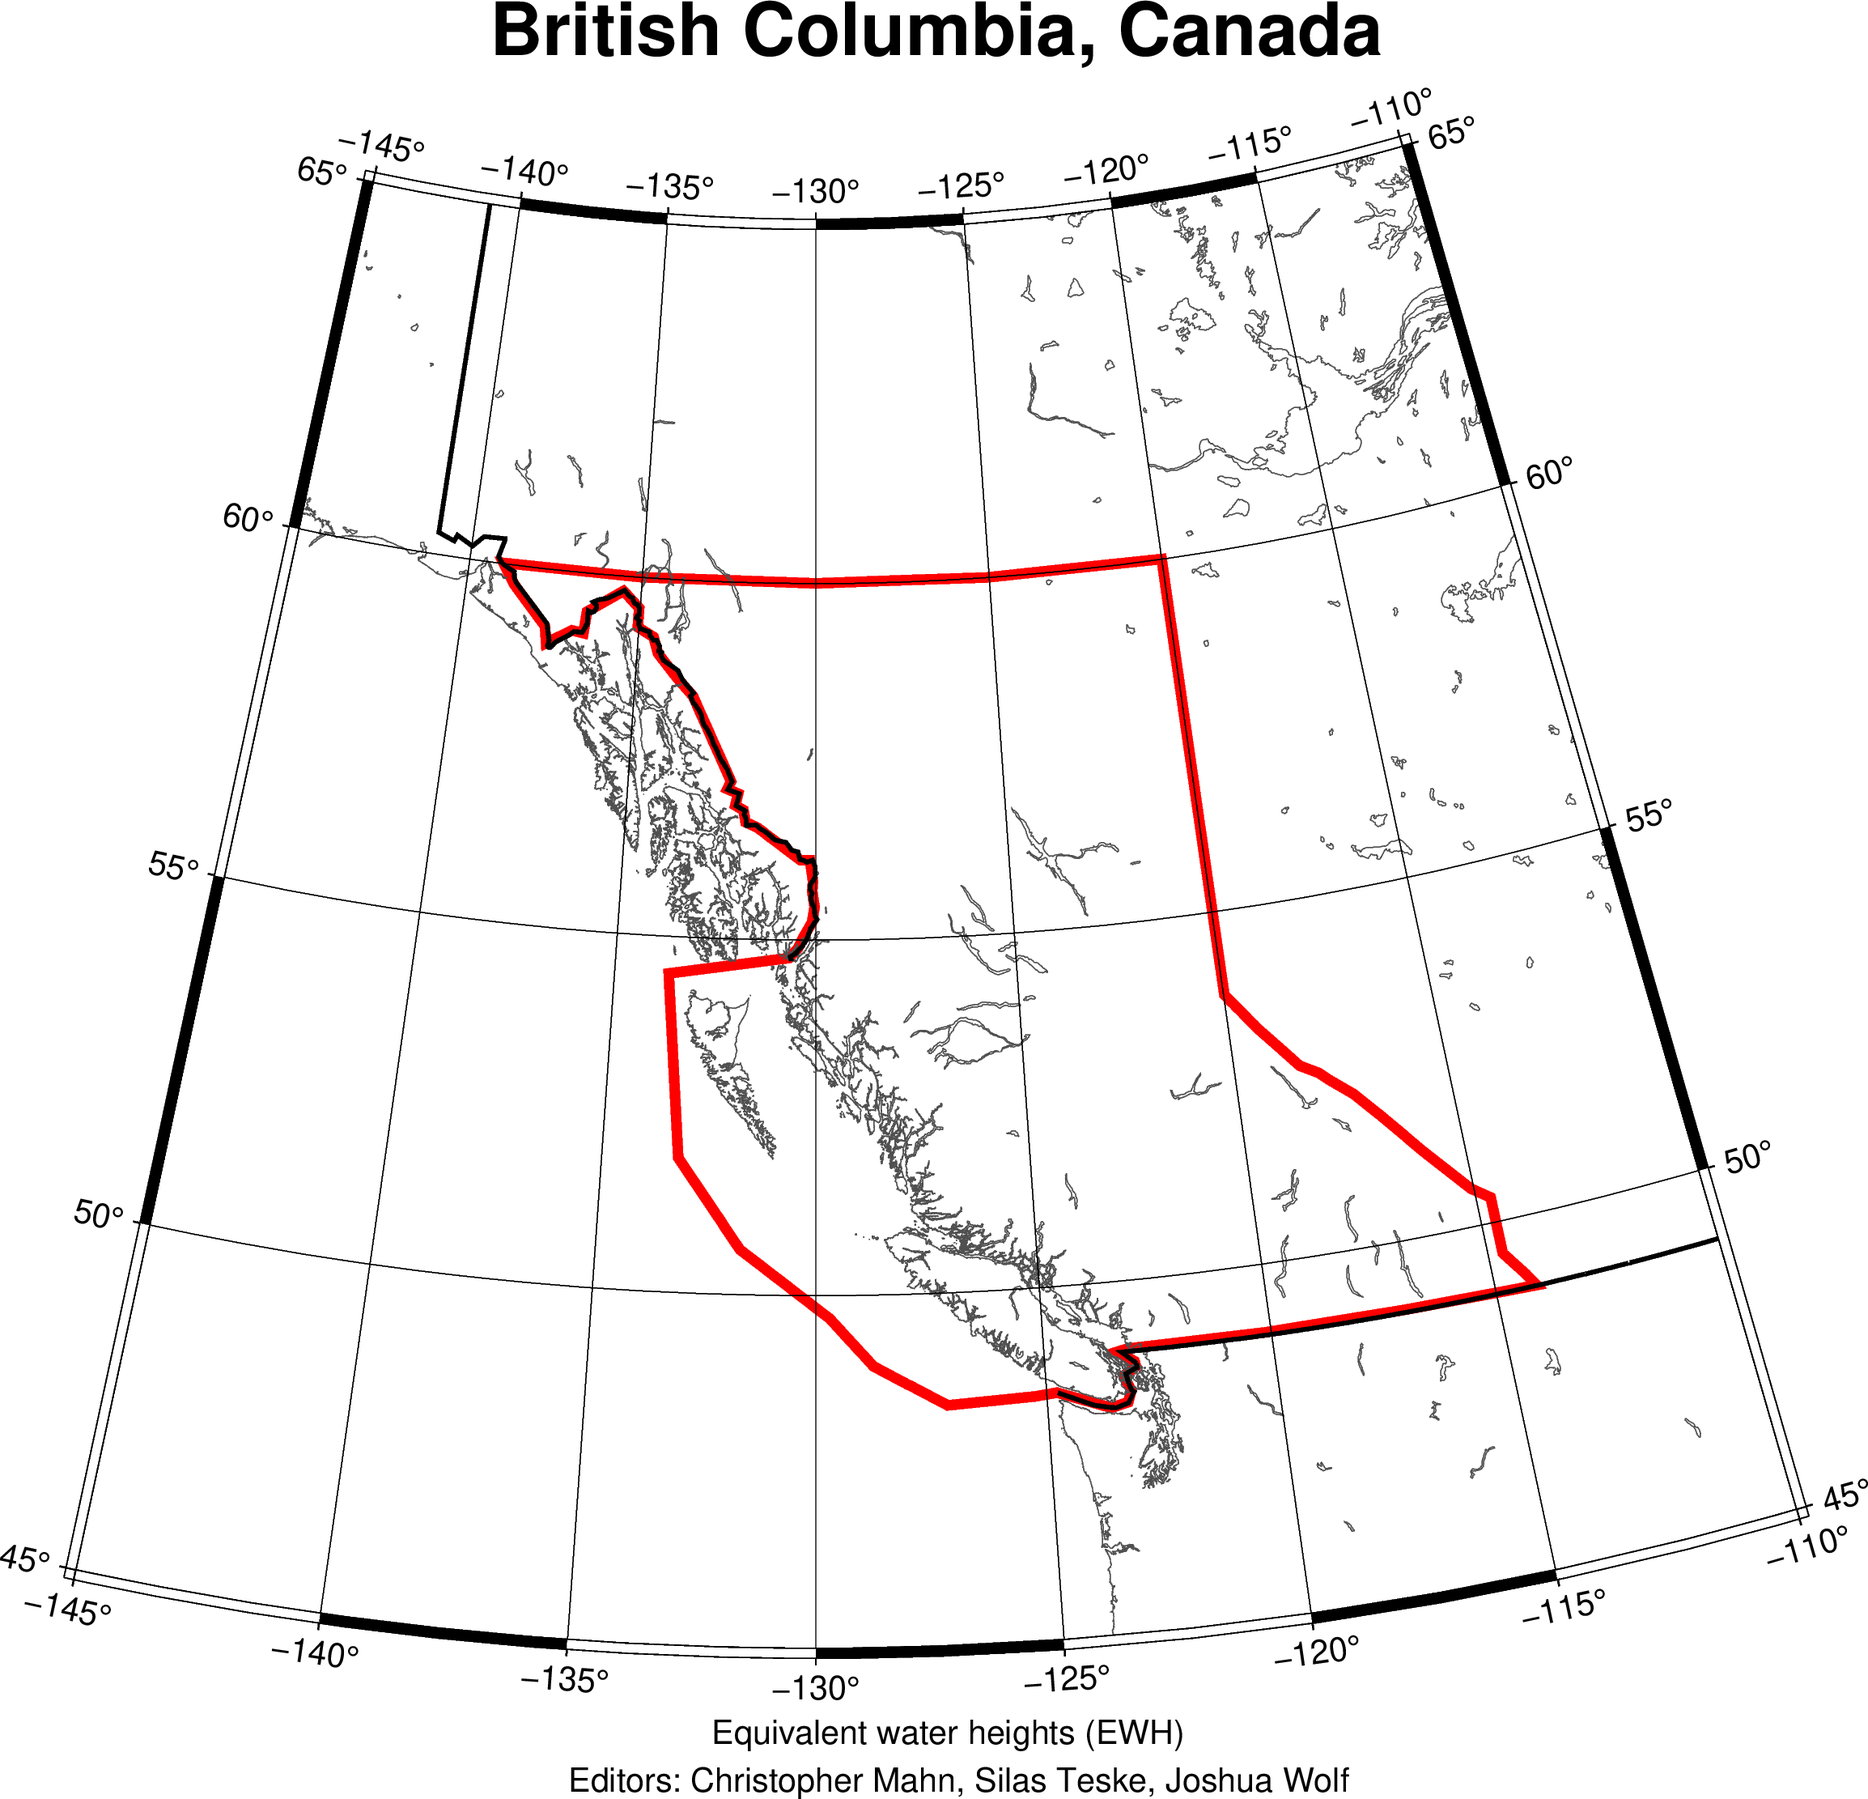
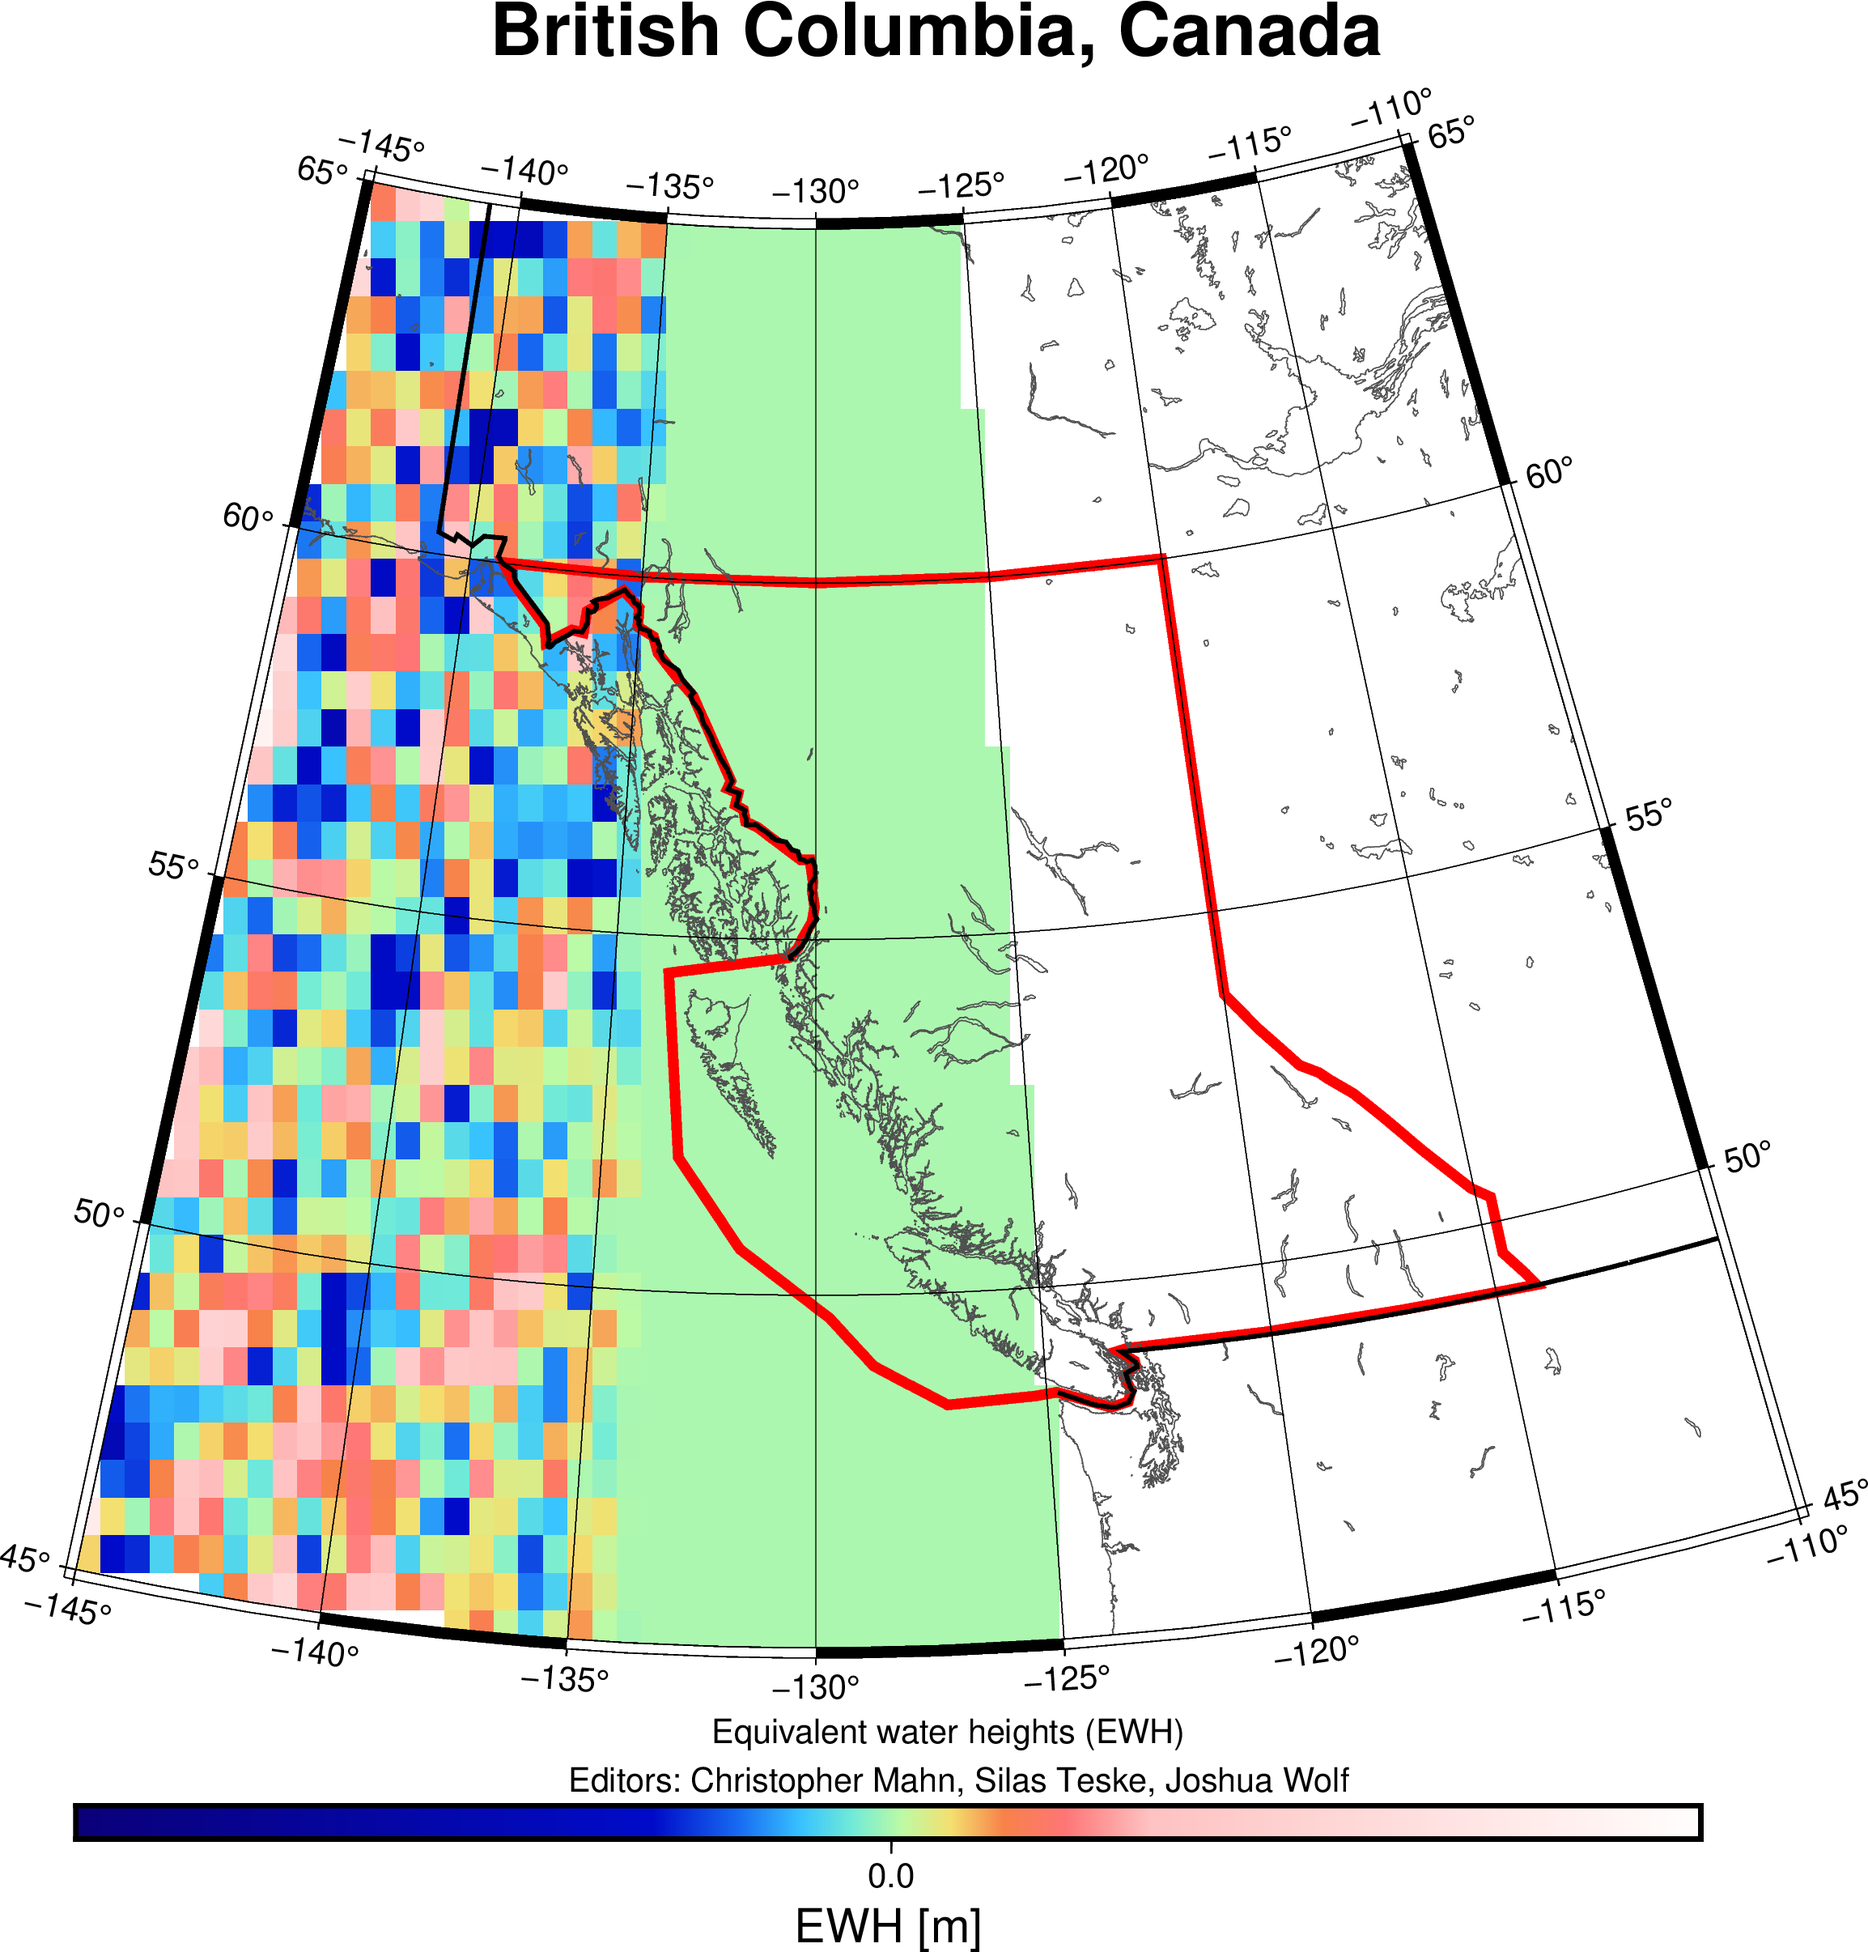
asd

diff --git a/task_02/data_plotting.py b/task_02/data_plotting.py
@@ -94,3 +94,30 @@ if __name__ == '__main__':
                             editors="Editors: Christopher Mahn, Silas Teske, Joshua Wolf",
                             colorbar_settings='-Dx0c/-2c+w17c/0.35c+h -B0.5+l"EWH [m]" -V'
                             )
+    """
+    plot_sherical_harmonics(file_name="monthly_ewh_2008-04",
+                            img_type="png",
+                            grid_resolution="0.5",
+                            file_poly=os.path.join(main.folder_data, "region_polygon.txt"),
+                            map_projection="B-130/65/45/65/18c",
+                            region ="-145/-110/45/65",
+                            color_palette="haxby",
+                            title="British Columbia, Canada",
+                            subtitle="Unfiltered equivalent water heights (EWH) 2008-04",
+                            editors="Editors: Christopher Mahn, Silas Teske, Joshua Wolf",
+                            colorbar_settings='-Dx0c/-2c+w17c/0.35c+h -B0.5+l"EWH [m]" -V'
+                            )
+    
+    plot_sherical_harmonics(file_name="monthly_ewh_filtered_300km_2008-04",
+                            img_type="png",
+                            grid_resolution="0.5",
+                            file_poly=os.path.join(main.folder_data, "region_polygon.txt"),
+                            map_projection="B-130/65/45/65/18c",
+                            region ="-145/-110/45/65",
+                            color_palette="haxby",
+                            title="British Columbia, Canada",
+                            subtitle="Filtered (R=300 km) equivalent water heights (EWH) 2008-04",
+                            editors="Editors: Christopher Mahn, Silas Teske, Joshua Wolf",
+                            colorbar_settings='-Dx0c/-2c+w17c/0.35c+h -B0.5+l"EWH [m]" -V'
+                            )
+    """

diff --git a/task_03/task3.py b/task_03/task3.py
@@ -1,0 +1,31 @@
+# Geodetic Earth Observation - Task 03
+# #############################################################################
+
+# Authors:
+# Silas Teske
+# Joshua Wolf
+# Christopher Mahn
+
+# #############################################################################
+
+# Import of Libraries
+# -----------------------------------------------------------------------------
+
+# import main
+# import string as st
+# import random as r
+# import re
+# from turtle import position
+# import matplotlib.pyplot as plt
+# from scipy import interpolate
+# import numpy as np
+# import math as m
+# import sys
+import os
+# from scipy.fft import fft, fftfreq
+# from scipy import signal
+# import functions as fu
+# import json
+import pymgt
+
+new_grid = pygmt.grdsample(grid='file=DTU15MDT_2min.mdt.nc', resolution=30m, region=[-145, -110, 45, 65], newgridname='earth_relief_30min.mdt.nc')
